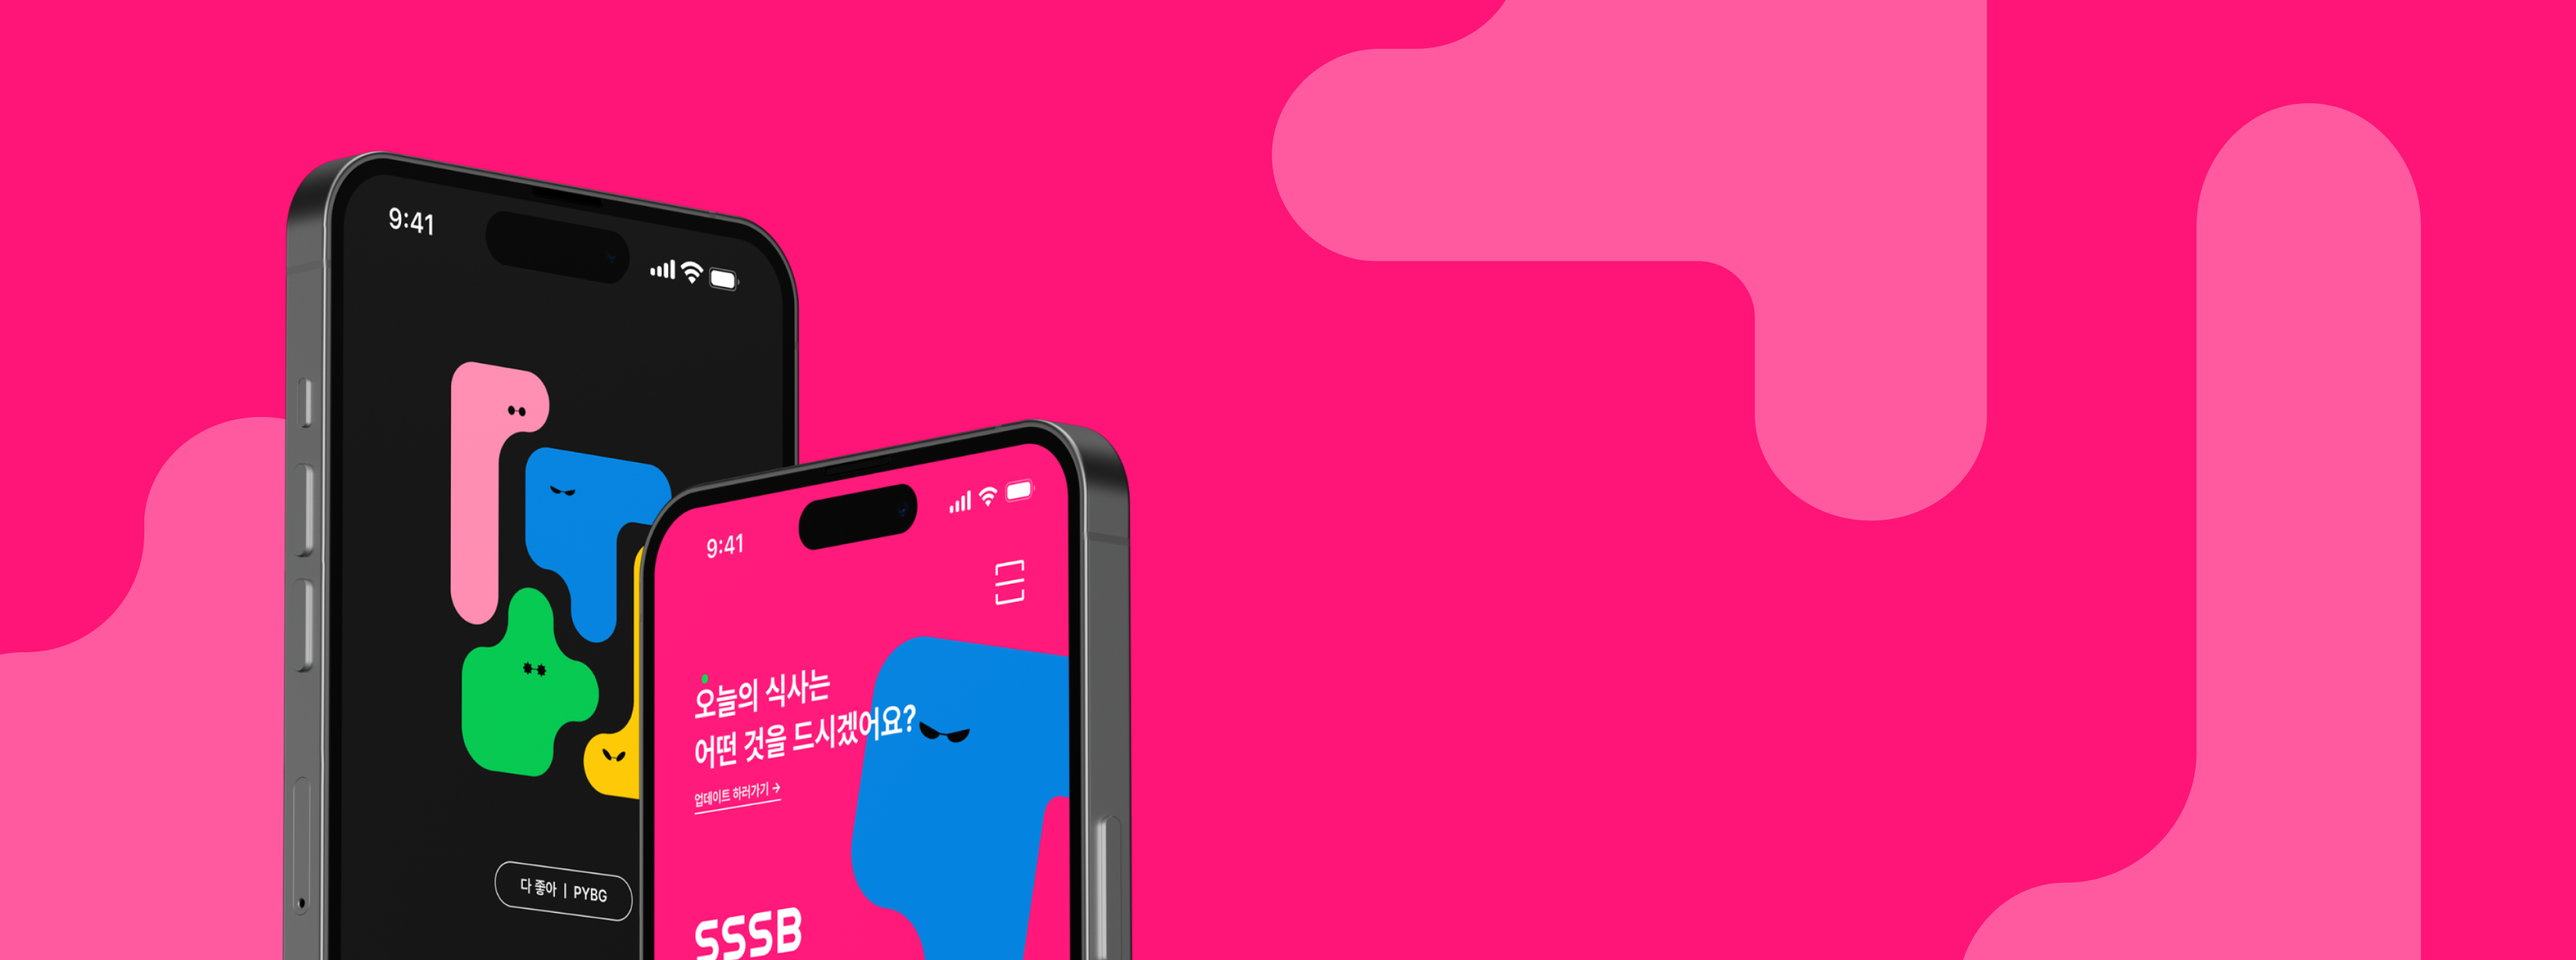
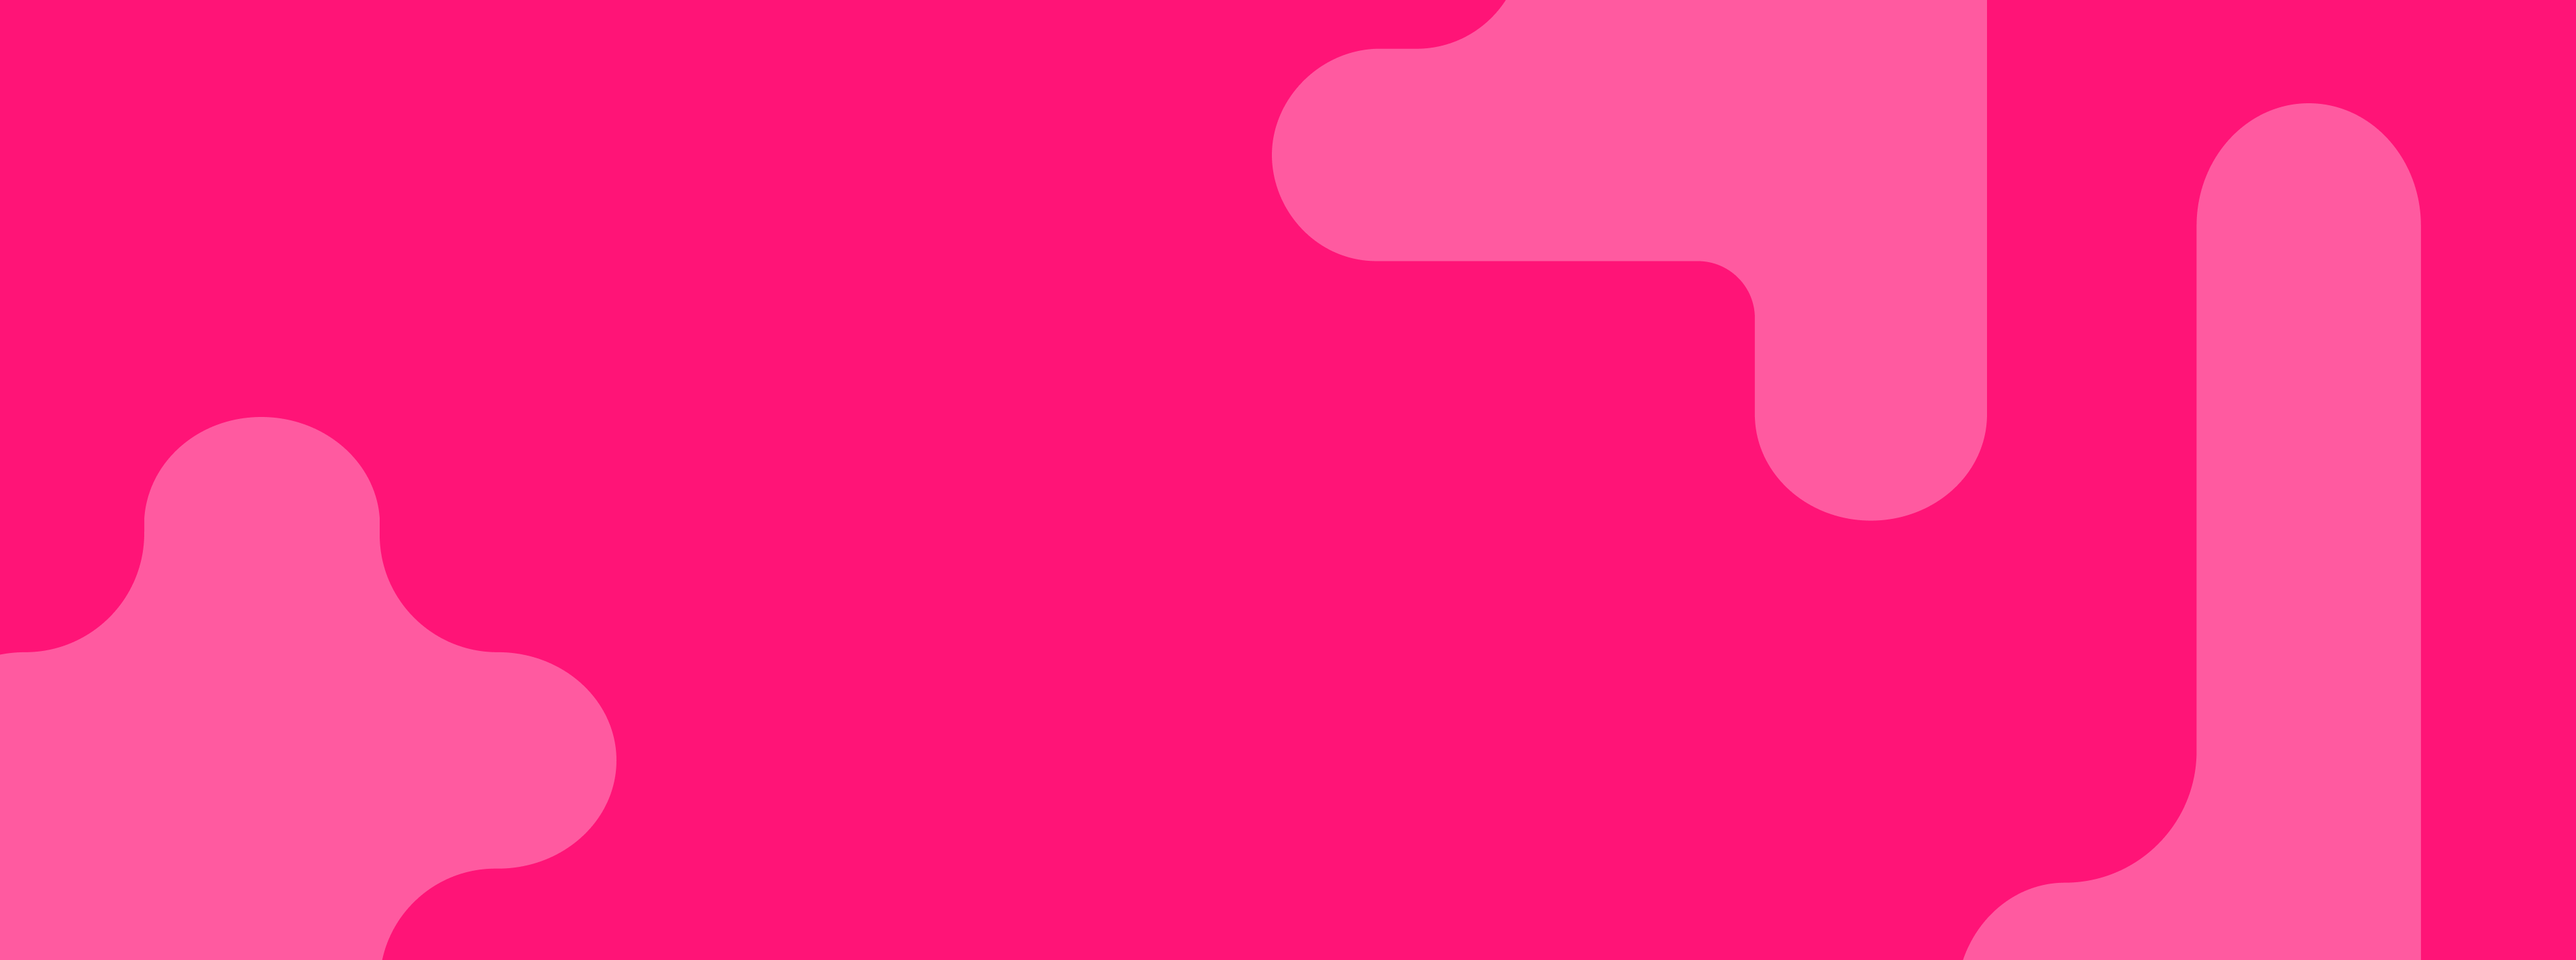
모션 추가2

Changed region(s): [[0.0938, 0.1536, 0.4375, 1.0]]

diff --git a/index.css b/index.css
@@ -140,7 +140,7 @@ section {
 }
 .bounce{
     display: inline-block;
-    animation: 3s bounce running infinite alternate var(--delay);
+    animation: 3.1s bounce running infinite alternate var(--delay);
 }
 @keyframes bounce {
     0% {
@@ -844,45 +844,61 @@ section {
     height: 100%;
     text-align: center;
 }
-#service li{
+.valuebox{
     width: 32%;
     border: solid calc(100vw * 2 / 1920) #FF1477;
     border-radius: calc(100vw * 70 / 1920);
     overflow: hidden;
 }
-#service div{
+.valuebox div{
     padding: 5% 0 3.5% 0;
     height: 35%;
     background-color: #FF1477;
 }
-#service div p{
+.valuebox div p{
     font-size: calc(100vw * 19 / 1920);
     margin-bottom: 2.1%;
 }
-#service div h3{
+.valuebox h3{
     font-size: calc(100vw * 28 / 1920);
     line-height: 150%;
 }
-#service li>p{
+.valuebox >p{
     padding: 10% 0 12% 0;
     height: 60%;
     font-size: calc(100vw * 19 / 1920);
     line-height: 150%;
 }
-#service li:nth-child(3)>p{
+#value3>p{
     padding-top: 8%;
 }
 
 #appintro{
+    display: flex;
     margin: 12.8% 0 6.4% 0;
     width: 100%;
     height: calc(100vw * 716 / 1920);
     background-image: url(./img/appintro.png);
     background-repeat: no-repeat;
     background-size: cover;
+    overflow: hidden;
+}
+#appintro img{
+    margin: calc(100vw * 56 / 1920) 0 0 calc(100vw * 181 / 1920);
+    width: calc(100vw * 701 / 1920);
+    height: calc(100vw * 1388 / 1920);
+    animation: slogan 1s ease infinite alternate;
+}
+@keyframes slogan {
+    0% {
+        transform: translateY(0);
+    }
+    100% {
+        transform: translateY(-2%);
+    }
 }
 #appintro h2{
-    padding: 15.1% 0 12.9% 49.5%;
+    padding: 15.1% 0 12.9% 3.5%;
     font-size: calc(100vw * 48 / 1920);
     line-height: 150%;
 }

diff --git a/index.html b/index.html
@@ -394,7 +394,7 @@
                 <h3 class="sbold">우리는 이런 가치의 서비스들을 제공합니다</h3>
             </div>
             <ul id="service">
-                <li>
+                <li id="value1" class="valuebox">
                     <div>
                         <p class="sbold">01</p>
                         <h3 class="sbold">
@@ -408,7 +408,7 @@
                         유형검사를 통해 네 가지 알파벳으로 정의할 수 있습니다.
                     </p>
                 </li>
-                <li>
+                <li id="value2" class="valuebox">
                     <div>
                         <p class="sbold">02</p>
                         <h3 class="sbold">
@@ -422,7 +422,7 @@
                         음식과 장소를 지정해 줄 수 있습니다.
                     </p>
                 </li>
-                <li>
+                <li id="value3" class="valuebox">
                     <div>
                         <p class="sbold">03</p>
                         <h3 class="sbold">
@@ -441,6 +441,7 @@
         </section>
         
         <section id="appintro">
+            <img src="/img/slogan.png" alt="대표 화면 앱 목업">
             <h2>
                 서로의 음식 취향을 섞어<br>
                 나의 취향을 말하는 것이 부끄럽지 않도록!

diff --git a/index.js b/index.js
@@ -208,6 +208,37 @@ liItems1.forEach(function(liItem) {
   });
 
 
+//Service Value 순차적 등장
+  const valuebox = document.querySelectorAll('.valuebox');
+
+  valuebox.forEach((el, index) => {
+      el.style.transition = `all 0.5s ease ${index * 0.2}s`;
+    //   el.style.transform = 'translateY(50%)';
+  });
+  
+  const observer = new IntersectionObserver(entries => {
+      entries.forEach(entry => {
+        if (entry.isIntersecting) {
+            entry.target.style.opacity = '1';
+        } else {
+            entry.target.style.opacity = '0';
+        }
+
+        //   if (entry.isIntersecting) {
+        //       entry.target.style.transform = 'translateY(0)';
+        //   } else {
+        //       entry.target.style.transform = 'translateY(100%)';
+        //   }
+      });
+  }, {
+      root: null,
+      rootMargin: '0px',
+      threshold: 0.1
+  });
+  
+  valuebox.forEach(el => {
+      observer.observe(el);
+  });
 
 //testresult img 위치 값 계산
 
